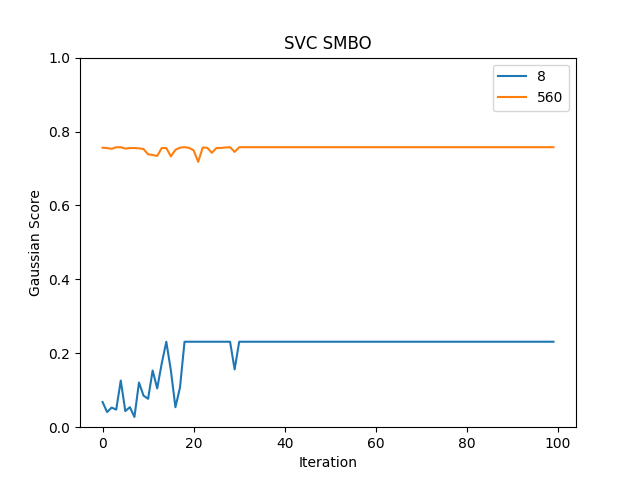
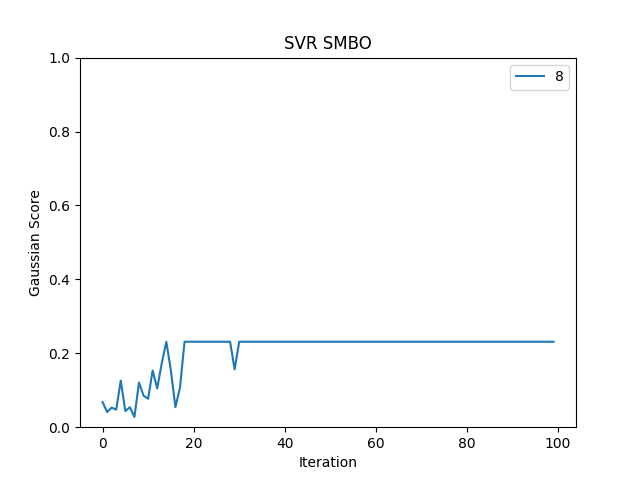
mplc

diff --git a/part2.py b/part2.py
@@ -228,7 +228,7 @@ def save_results_df(results, filename):
                    columns=cols, sep=",", index=False)
 
 
-def plot_gaussian_scores(results, show=False, save=False, filename=None):
+def plot_gaussian_scores(results, model, show=False, save=False, filename=None):
     plt.clf()
     for gaussian_scores in results['SMBO_Gaussian_Scores']:
         plt.plot(gaussian_scores)
@@ -237,7 +237,7 @@ def plot_gaussian_scores(results, show=False, save=False, filename=None):
     plt.xlabel("Iteration")
     plt.ylabel("Gaussian Score")
     plt.legend(results['DatasetID'])
-    plt.title("SVC SMBO")
+    plt.title(f'{model} SMBO')
     if show:
         plt.show()
     if save:
@@ -284,19 +284,31 @@ param_grid_MLP = {
     "alpha": [1e-1, 1e-5]
 }
 
-
+"""
 # SVC - 1464, 1491, 1494, 1504, 1063
 results_svc = make_comparisons(
     param_rand_svc, param_grid_svc, 'SVC', [1464, 1491, 1494, 1504, 1063])
 # Plot Gaussian Scores
-plot_gaussian_scores(results_svc, save=True, filename="gaussian_scores_svc")
+plot_gaussian_scores(results_svc, "SVC", save=True, filename="gaussian_scores_svc")
 # Save to CSV
 save_results_df(results_svc, "results_svc")
-
-# SVR
+"""
+# SVR 8, 560
 results_svr = make_comparisons(
     param_rand_svr, param_grid_svr, 'SVR', [8, 560])
 # Plot Gaussian Scores
-plot_gaussian_scores(results_svr, save=True, filename="gaussian_scores_svr")
+plot_gaussian_scores(results_svr, "SVR", save=True,
+                     filename="gaussian_scores_svr")
 # Save to CSV
 save_results_df(results_svr, "results_svr")
+
+
+"""
+# MLP
+results_mlpc = make_comparisons(
+    param_rand_MLP, param_grid_MLP, 'MLPC', [1464])
+# Plot Gaussian Scores
+plot_gaussian_scores(results_mlpc, "MLPC", save=True, filename="gaussian_scores_mlpc")
+# Save to CSV
+save_results_df(results_mlpc, "results_mlpc")
+"""
